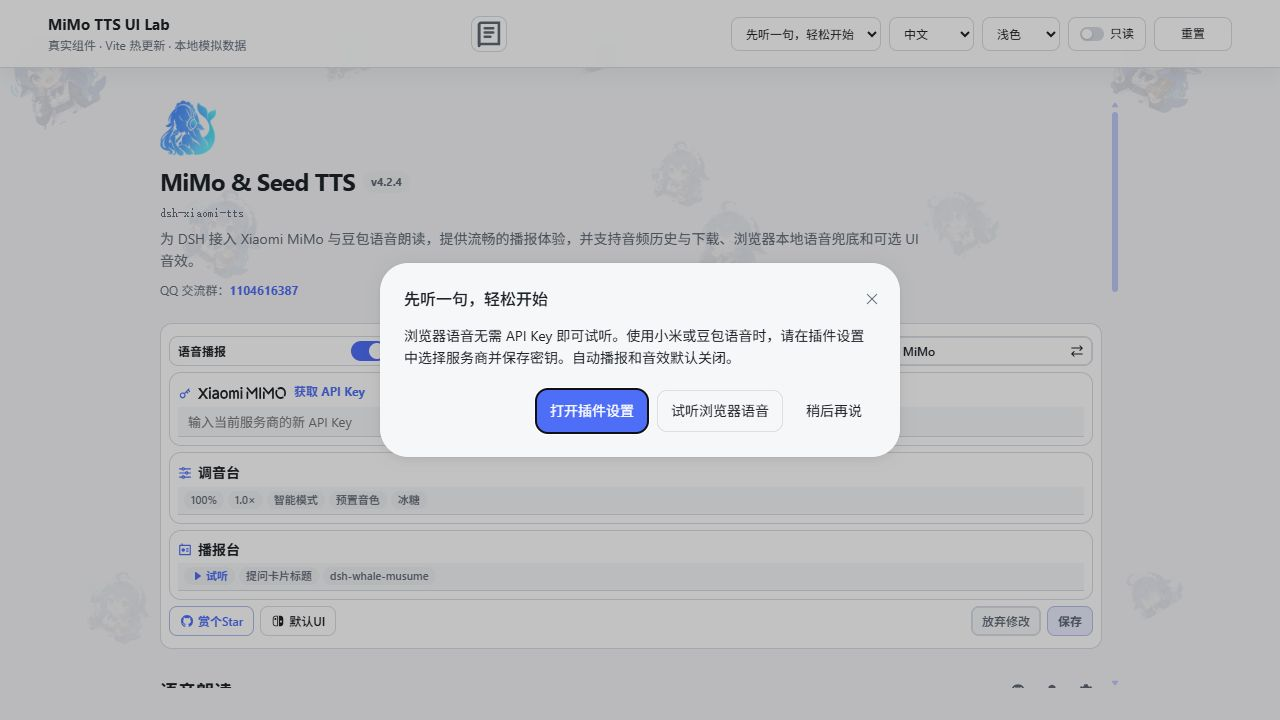
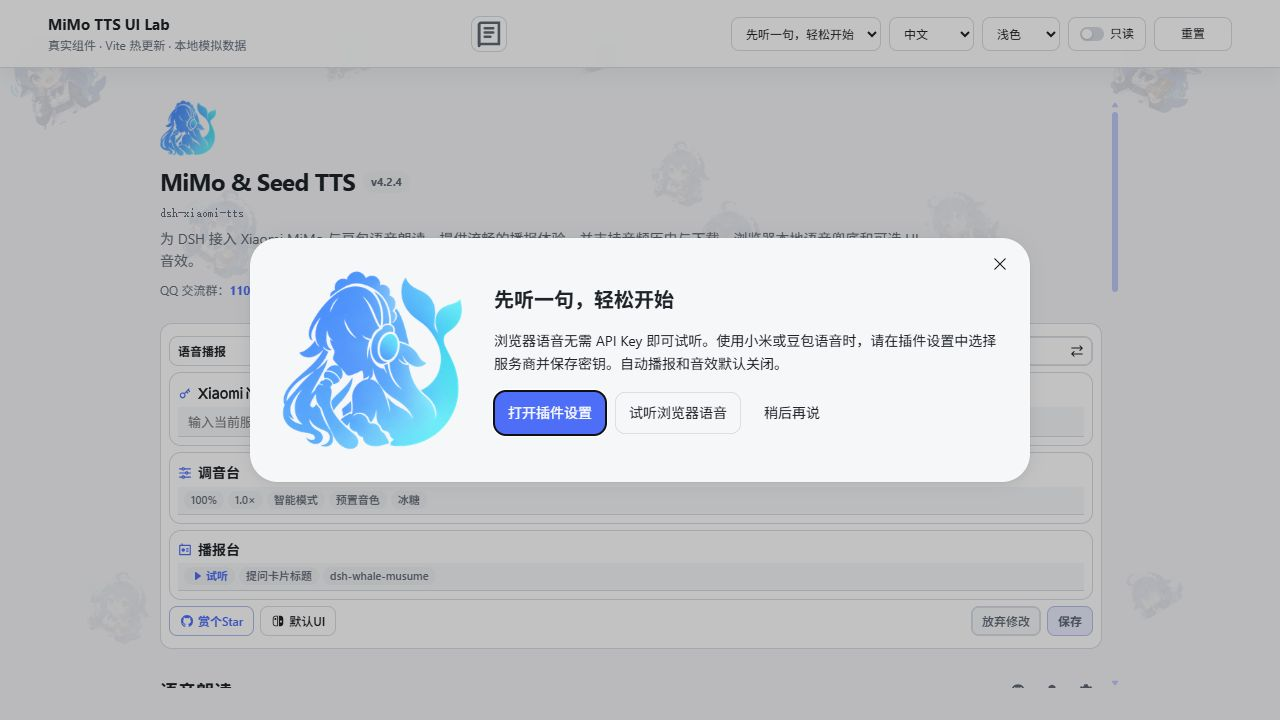
style(ui): 引导弹窗采用头像与内容左右布局

Changed region(s): [[0.1875, 0.3056, 0.8125, 0.6722]]

diff --git a/src/client/settings/activation-guide.tsx b/src/client/settings/activation-guide.tsx
@@ -2,14 +2,15 @@ import { useEffect, useState, useSyncExternalStore } from 'react'
 import type { ReactElement } from 'react'
 import type { PluginActivationOwnerProps } from '@deepseek-ai/dsh-client-ui-plugin-manager/client'
 import type { ConfigForm } from '@deepseek-ai/dsh-client-ui-settings/client'
-import { Button, Modal } from '@deepseek-ai/dsh-client-ui-primitives'
-import { resolveTtsSettings } from '../../shared.js'
+import { Button, IconCloseOutlineRegular, Modal } from '@deepseek-ai/dsh-client-ui-primitives'
+import { resolveTtsSettings, TTS_HISTORY_EMPTY_ASSET_ROUTE } from '../../shared.js'
 import type { TtsSettings } from '../../shared.js'
 import type { Translate } from '../localization.js'
 import { PreviewPlayer } from '../playback/preview-player.js'
 import type { PreviewView } from '../playback/preview-player.js'
 import type { AudioFocus } from '../playback/tab-audio-focus.js'
 import { IDLE_PLUGIN_CHANGES, type SnapshotSource } from '../plugin-activity.js'
+import { hostRoute } from '../host-route.js'
 
 interface ActivationGuideProps extends PluginActivationOwnerProps {
   t: Translate
@@ -40,19 +41,30 @@ export function ActivationGuide({ t, scope, audioFocus, beforePreview, onOpenDet
   return <Modal
     open
     title={t('onboarding.title')}
-    description={t('onboarding.description')}
-    closeLabel={t('onboarding.dismiss')}
+    headless
     onClose={dismiss}
     className="xmimo-ui-scope xmimo-tts-activation-dialog"
-    footer={<div className="xmimo-tts-activation-actions">
-      <Button type="button" variant="primary" data-modal-autofocus onClick={openDetails} disabled={changing}>{t('onboarding.configure')}</Button>
-      <Button type="button" variant="outline" onClick={preview} disabled={changing}>{t(playing ? 'action.stop' : 'onboarding.preview')}</Button>
-      <Button type="button" variant="toolbar" onClick={dismiss}>{t('onboarding.dismiss')}</Button>
-    </div>}
   >
-    {view.status === 'error' || changing ? <div className="xmimo-tts-activation-feedback">
-      {view.status === 'error' ? <p className="xmimo-tts-failed" role="alert">{t(view.error === 'autoplay-blocked' ? 'settings.previewErrorAutoplay' : 'settings.previewErrorLocalUnavailable')}</p> : null}
-      {changing ? <p role="status">{t('plugin.changing')}</p> : null}
-    </div> : undefined}
+    <Button type="button" variant="toolbar" size="sm" className="xmimo-tts-activation-close" aria-label={t('onboarding.dismiss')} onClick={dismiss}>
+      <IconCloseOutlineRegular size={16} />
+    </Button>
+    <div className="xmimo-tts-activation-layout">
+      <div className="xmimo-tts-activation-art" aria-hidden="true">
+        <img src={hostRoute(TTS_HISTORY_EMPTY_ASSET_ROUTE)} alt="" width={256} height={256} />
+      </div>
+      <div className="xmimo-tts-activation-content">
+        <h2>{t('onboarding.title')}</h2>
+        <p>{t('onboarding.description')}</p>
+        <div className="xmimo-tts-activation-actions">
+          <Button type="button" variant="primary" data-modal-autofocus onClick={openDetails} disabled={changing}>{t('onboarding.configure')}</Button>
+          <Button type="button" variant="outline" onClick={preview} disabled={changing}>{t(playing ? 'action.stop' : 'onboarding.preview')}</Button>
+          <Button type="button" variant="toolbar" onClick={dismiss}>{t('onboarding.dismiss')}</Button>
+        </div>
+        {view.status === 'error' || changing ? <div className="xmimo-tts-activation-feedback">
+          {view.status === 'error' ? <p className="xmimo-tts-failed" role="alert">{t(view.error === 'autoplay-blocked' ? 'settings.previewErrorAutoplay' : 'settings.previewErrorLocalUnavailable')}</p> : null}
+          {changing ? <p role="status">{t('plugin.changing')}</p> : null}
+        </div> : undefined}
+      </div>
+    </div>
   </Modal>
 }

diff --git a/src/client/style/plugin-surfaces.css b/src/client/style/plugin-surfaces.css
@@ -1,7 +1,19 @@
-.xmimo-tts-activation-dialog { width: min(520px, 100%); max-height: 100%; overflow-y: auto; }
+.xmimo-tts-activation-dialog { display: block; width: min(780px, 100%); max-height: 100%; padding: 32px; overflow-y: auto; }
+.xmimo-tts-activation-layout { display: grid; grid-template-columns: 180px minmax(0, 1fr); align-items: center; gap: 32px; }
+.xmimo-tts-activation-art img { display: block; width: 100%; height: auto; object-fit: contain; }
+.xmimo-tts-activation-content { display: grid; min-width: 0; gap: 16px; color: var(--xmimo-ui-text); }
+.xmimo-tts-activation-content h2 { margin: 0; padding-inline-end: 12px; font-size: 20px; font-weight: 600; line-height: 1.4; }
+.xmimo-tts-activation-content > p { margin: 0; font-size: 14px; line-height: 1.65; }
+.xmimo-tts-activation-close { position: absolute; inset-block-start: 12px; inset-inline-end: 12px; }
 .xmimo-tts-activation-feedback p { margin: 0; }
 .xmimo-tts-activation-actions { display: flex; flex-wrap: wrap; align-items: center; gap: 8px; }
 .xmimo-tts-activation-actions button { min-height: 44px; }
+@media (max-width: 560px) {
+  .xmimo-tts-activation-dialog { padding: 28px 20px; }
+  .xmimo-tts-activation-layout { grid-template-columns: 64px minmax(0, 1fr); align-items: start; gap: 16px; }
+  .xmimo-tts-activation-art { margin-block-start: 24px; }
+  .xmimo-tts-activation-content h2 { font-size: 18px; }
+}
 .xmimo-tts-plugin-status { margin: 0; padding: 16px; color: var(--xmimo-ui-text-muted); }
 
 .xmimo-tts-detail-manual {

diff --git a/tools/doc/plugin-detail-extension-plan.md b/tools/doc/plugin-detail-extension-plan.md
@@ -78,5 +78,7 @@
 
 验证：1280×720 下弹窗与视口中心同为 (640, 360)，Portal 挂载和 aria-modal 正确；初始焦点进入设置按钮，Tab 在弹窗内循环。Esc、关闭按钮及点击遮罩均可撤销弹窗。390×844 窄屏下弹窗在视口内完整显示，按钮正常换行。`pnpm typecheck`、`pnpm test`（280/280）、`pnpm dev:build` 均通过；本记录为独立浏览器预览结果，不替代真实宿主回归。
 
+布局调整：引导改为左右分栏，左侧使用 `assets/plugin-icons/avatar.webp`，复用已发布的同图静态资源；右侧保留标题、说明、三个操作及状态提示。桌面弹窗宽度为 780px，390px 窄屏仍保留左右关系并自动换行按钮，已验证头像加载、无横向溢出和 Esc 关闭。类型检查、280 项测试与预览构建通过，以下截图已更新为当前布局。
+
 ![居中激活引导](screenshots/activation-guide-desktop.png)
 ![窄屏激活引导](screenshots/activation-guide-mobile.png)
